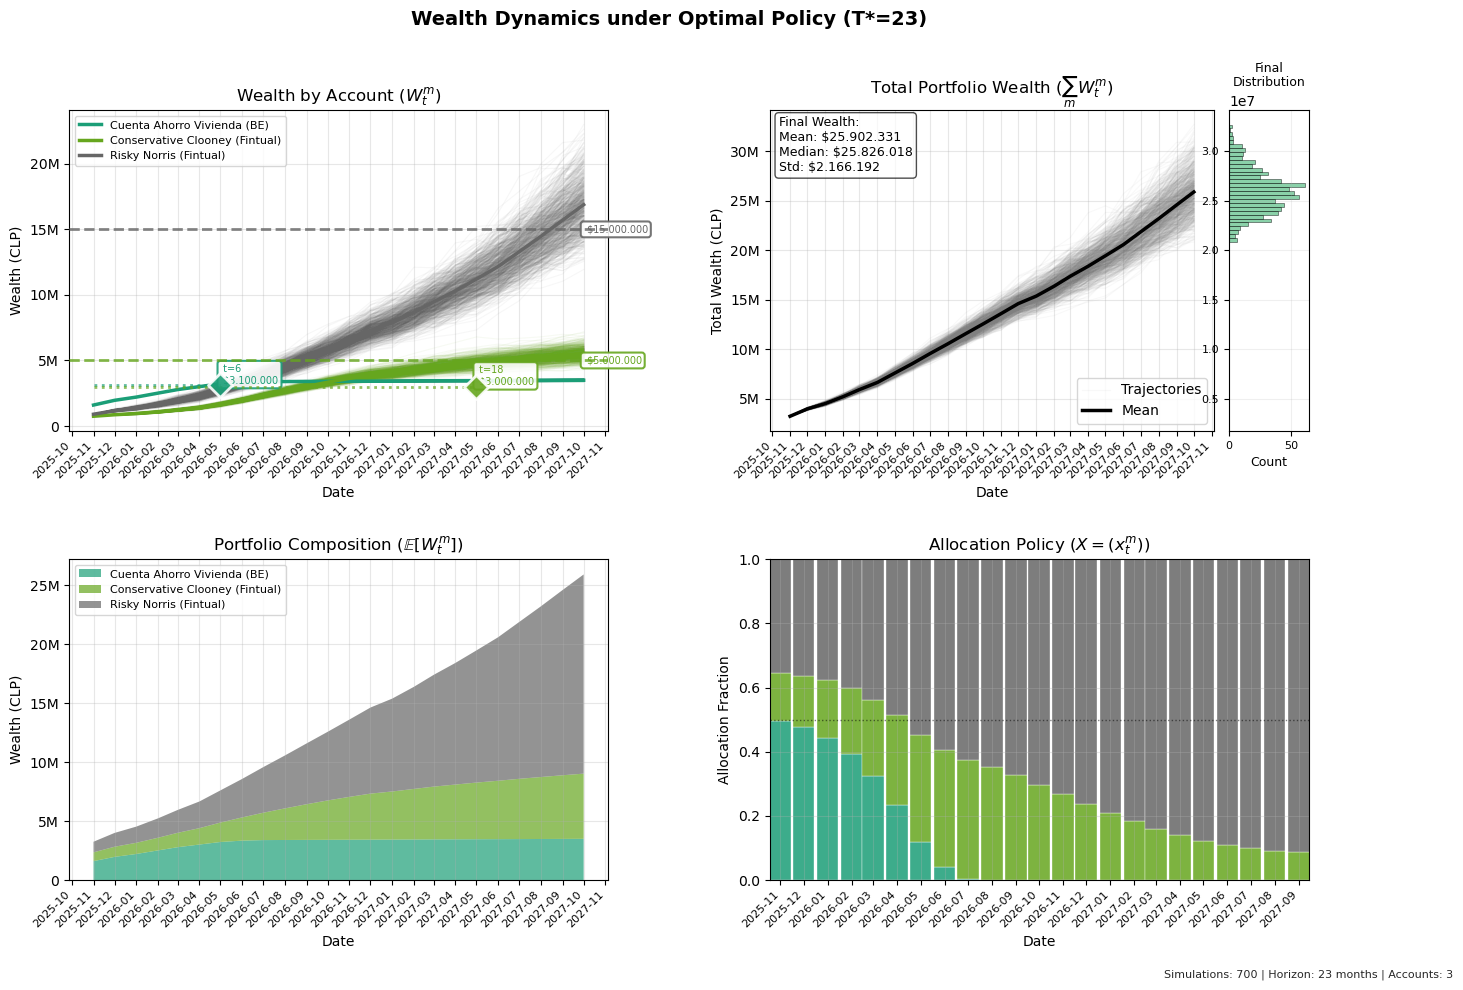
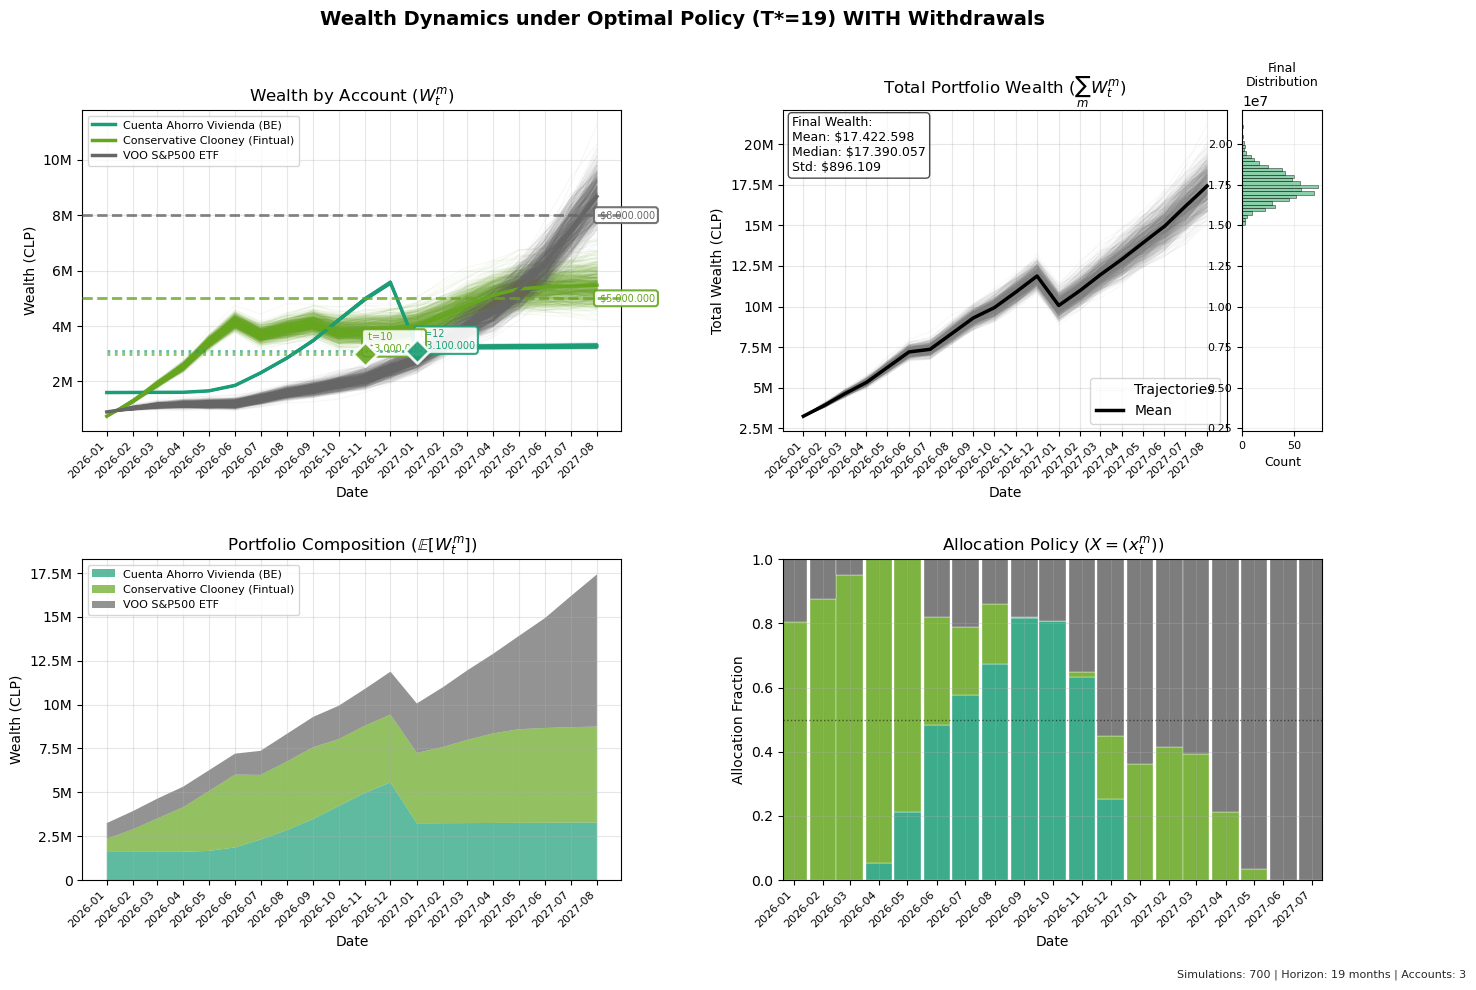
feat: Update README with new notebook descriptions and remove outdated entries

diff --git a/README.md b/README.md
@@ -183,7 +183,8 @@ model.plot("wealth", result=result, show_trajectories=True)
 | Notebook | Description |
 |----------|-------------|
 | [FinOpt-Workflow.ipynb](notebooks/FinOpt-Workflow.ipynb) | Complete workflow: income, simulation, optimization, visualization |
-| [recursive_affine_verification.ipynb](notebooks/recursive_affine_verification.ipynb) | Mathematical verification of affine wealth representation |
+| [01-profile-builder.ipynb](notebooks/01-profile-builder.ipynb) | Profile builder: income, portfolio, return|
+| [02-scenario-optimizer.ipynb](notebooks/02-scenario-optimizer.ipynb) | Scenario builder: goals, withdrawal, optimization|
 
 ---
 
@@ -222,7 +223,7 @@ model.plot("wealth", result=result, show_trajectories=True)
 | `returns.py` | Stochastic shocks | `ReturnModel` (correlated lognormal) |
 | `portfolio.py` | Wealth dynamics | `Account`, `Portfolio` (affine executor) |
 | `goals.py` | Objective specification | `IntermediateGoal`, `TerminalGoal`, `GoalSet` |
-| `optimization.py` | Convex solvers | `SAAOptimizer`, `CVaROptimizer`, `GoalSeeker` |
+| `optimization.py` | Convex solvers | `CVaROptimizer`, `GoalSeeker` |
 | `model.py` | Orchestration | `FinancialModel` (facade), `SimulationResult` |
 
 ---
@@ -250,21 +251,25 @@ where $F_{s,t}^m = \prod_{\tau=s}^{t-1}(1 + R_\tau^m)$ are accumulation factors.
 ### CVaR Reformulation
 
 Original chance constraint (non-convex):
+
 $$
 \mathbb{P}(W_t^m \geq b) \geq 1 - \varepsilon
 $$
 
 CVaR reformulation (convex):
+
 $$
 \text{CVaR}_\varepsilon(b - W_t^m) \leq 0
 $$
 
 where:
+
 $$
 \text{CVaR}_\varepsilon(L) = \min_{\gamma} \left\{ \gamma + \frac{1}{\varepsilon N}\sum_{i=1}^N [L_i - \gamma]_+ \right\}
 $$
 
 **Epigraphic form** (LP-compatible):
+
 $$
 \begin{align}
 \gamma + \frac{1}{\varepsilon N}\sum_{i=1}^N z_i &\leq 0 \\
@@ -478,9 +483,6 @@ pytest tests/unit/test_portfolio.py -v -k "affine"
 
 ## Roadmap
 
-- [ ] **Transaction costs**: Convex penalties for rebalancing (L1/L2 norms)
-- [ ] **Tax modeling**: Capital gains for Chilean tax regime
-- [ ] **Multi-period rebalancing**: Dynamic policies vs pre-commitment
 - [ ] **Robust optimization**: Uncertainty sets for (μ, σ) parameters
 - [ ] **Historical backtesting**: Real fund return data
 